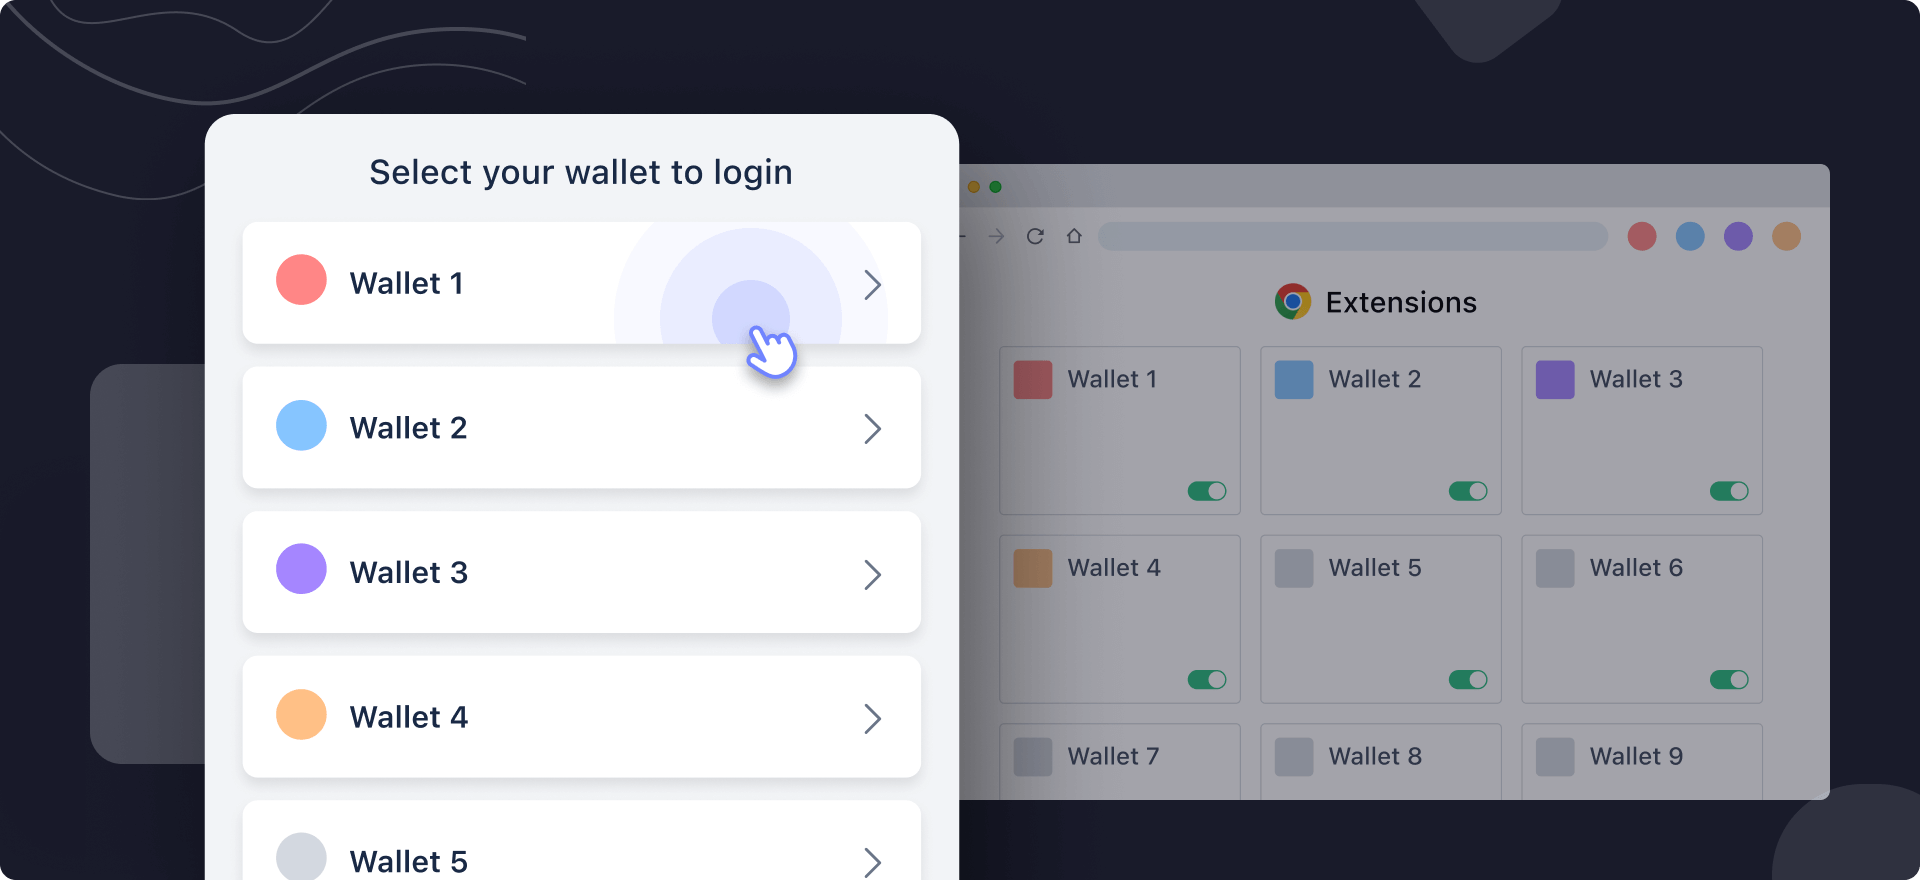
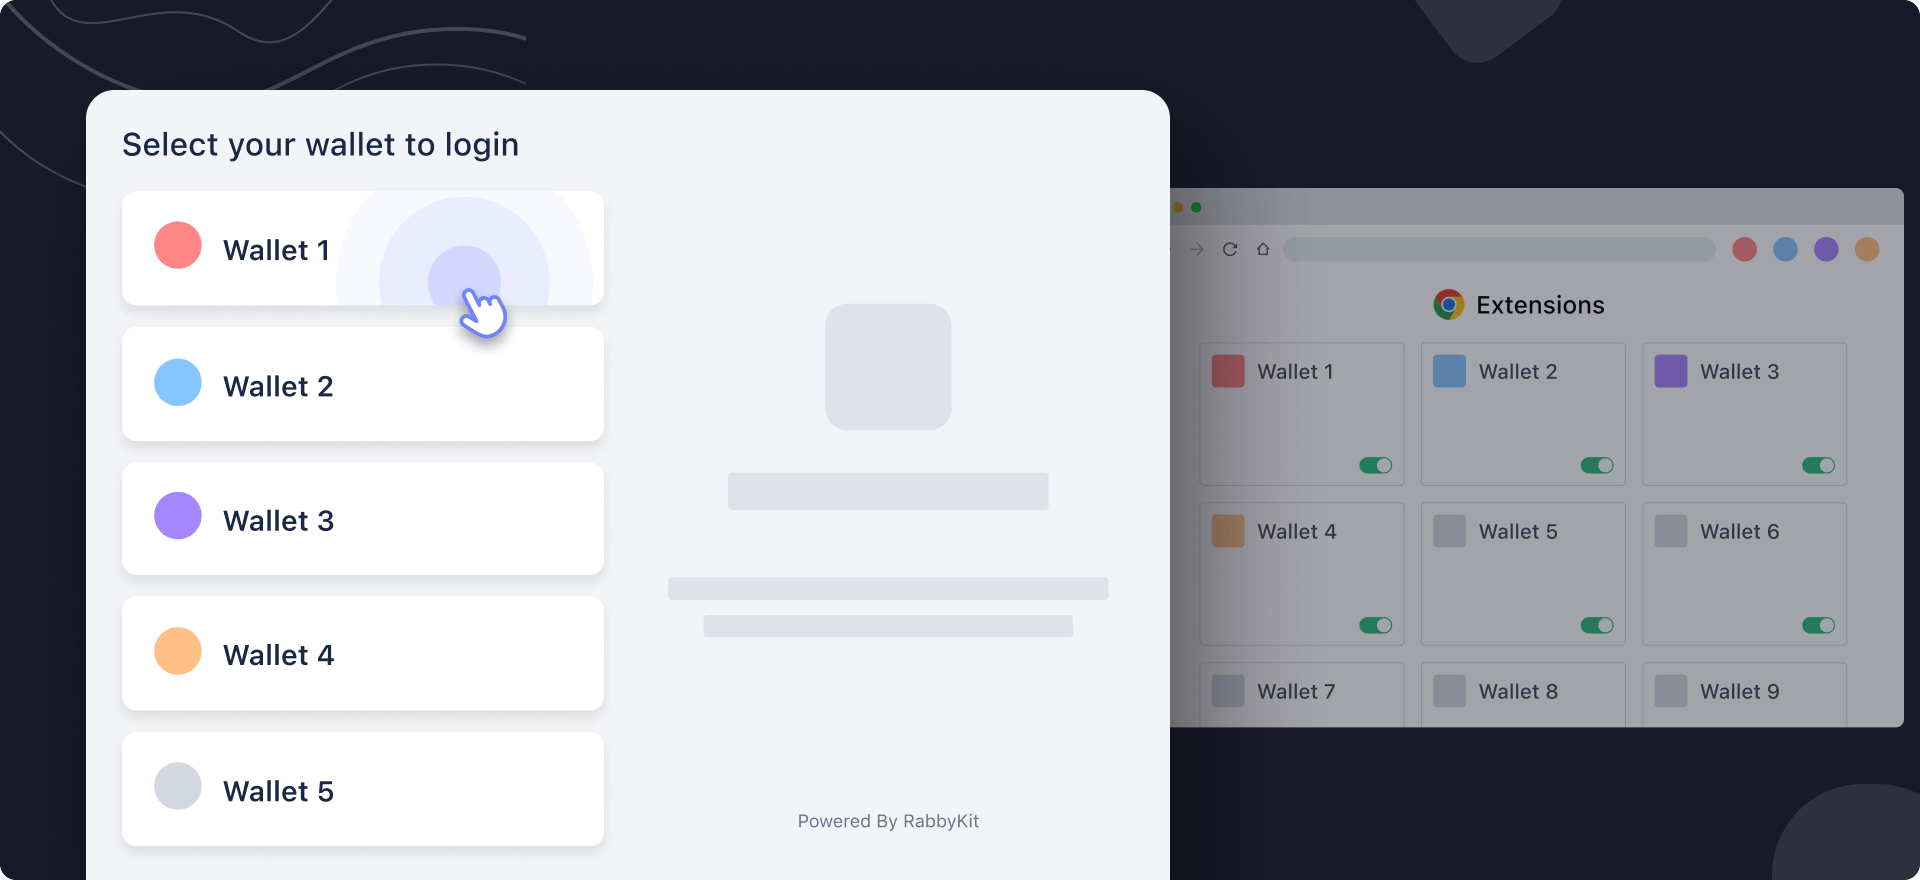
chore: update site

diff --git a/site/doc/src/component/sections/config.tsx b/site/doc/src/component/sections/config.tsx
@@ -105,52 +105,53 @@ export const ConfigDemo = () => {
       >
         Match your Dapp perfectly with minimal efforts
       </div>
-      <div
-        className={clsx(
-          "mx-auto w-full max-w-[960px] flex justify-between ",
-          "flex-col-reverse  items-center  relative -top-[50px]",
-          "lg:flex-row  lg:items-start lg:mt-[88px] lg:top-0"
-        )}
-      >
+      <div className="overflow-hidden w-full">
         <div
           className={clsx(
-            "flex flex-col gap-[32px]",
-            "items-center justify-center relative -top-[26px]",
-            "lg:items-start lg:justify-start lg:top-0"
+            "mx-auto w-full max-w-[960px] flex justify-between ",
+            "flex-col-reverse  items-center  relative -top-[50px]",
+            "lg:flex-row  lg:items-start lg:mt-[88px] lg:top-0"
           )}
         >
-          {allConfig.map((e) => (
-            <Item
-              key={e.name}
-              {...e}
-              onUpdate={(v) => {
-                if (e.type === "theme") {
-                  setTheme(v);
-                } else if (e.field) {
-                  setCss((preCss) => ({ ...preCss, [e.field]: v }));
-                }
-              }}
-            />
-          ))}
-
-          <a
-            href={docPath}
-            target="_blank"
-            rel="noreferrer"
-            style={{
-              fontSize: "13px",
-              fontStyle: "normal",
-              fontWeight: 400,
-              lineHeight: "normal",
-              textDecorationLine: "underline",
-            }}
-            className="text-white text-opacity-60"
+          <div
+            className={clsx(
+              "flex flex-col gap-[32px]",
+              "items-center justify-center relative -top-[26px]",
+              "lg:items-start lg:justify-start lg:top-0"
+            )}
           >
-            Learn more
-          </a>
-        </div>
+            {allConfig.map((e) => (
+              <Item
+                key={e.name}
+                {...e}
+                onUpdate={(v) => {
+                  if (e.type === "theme") {
+                    setTheme(v);
+                  } else if (e.field) {
+                    setCss((preCss) => ({ ...preCss, [e.field]: v }));
+                  }
+                }}
+              />
+            ))}
 
-        <Preview theme={theme} cssVar={cssVar} isCustom={isCustom} />
+            <a
+              href={docPath}
+              target="_blank"
+              rel="noreferrer"
+              style={{
+                fontSize: "13px",
+                fontStyle: "normal",
+                fontWeight: 400,
+                lineHeight: "normal",
+                textDecorationLine: "underline",
+              }}
+              className="text-white text-opacity-60"
+            >
+              Learn more
+            </a>
+          </div>
+          <Preview theme={theme} cssVar={cssVar} isCustom={isCustom} />d
+        </div>
       </div>
     </div>
   );
@@ -260,7 +261,7 @@ const demoList = [
   "#A586FF",
   "#FFC086",
   "#D3D8E0",
-  "#D9D9D9",
+  // "#D9D9D9",
 ];
 
 function WalletItem({
@@ -333,7 +334,6 @@ function WalletItem({
         }
 
         .item.sub {
-          width: 204px;
           height: 56px;
           background: transparent;
           color: var(--r-neutral-body);
@@ -358,101 +358,121 @@ const Preview = ({
   isCustom?: boolean;
 }) => {
   return (
-    <div
-      className={clsx(
-        "modal flex flex-col items-center",
-        "w-[460px] h-[560px]",
-        "scale-[0.7]",
-        "lg:scale-100",
-        theme
-      )}
-    >
-      <div className="title mb-[20px]">Select your wallet to login</div>
-      <div className="flex flex-col gap-[15px] w-full">
-        {demoList.slice(0, isCustom ? undefined : -1).map((fill, idx) => (
-          <WalletItem
-            fill={fill}
-            idx={idx + 1}
-            key={idx}
-            isCustom={isCustom && idx === 5}
-          />
-        ))}
+    <div className="max-w-[100vw] lg:ml-[80px]">
+      <div
+        className={clsx(
+          "modal flex flex-col items-center",
+          "w-[780px] h-[540px]",
+          "scale-[0.7]",
+          "lg:scale-100",
+          theme
+        )}
+      >
+        <div className="flex w-full h-full">
+          <div className="w-[300px] px-[20px] border-r border-r-[#D3D8E0] p-[20px]">
+            <div className="title mb-[20px]">Select your wallet to login</div>
+            <div className="flex flex-col gap-[10px] w-full">
+              {demoList.slice(0, isCustom ? undefined : -1).map((fill, idx) => (
+                <WalletItem
+                  fill={fill}
+                  idx={idx + 1}
+                  key={idx}
+                  isCustom={isCustom && idx === 4}
+                />
+              ))}
+            </div>
+
+            <div className="second">
+              The following wallets are not available
+            </div>
+            <div className="flex justify-between w-full flex-wrap gap-[10px]">
+              {Array.from({ length: 2 }, () => 1).map((_, idx) => (
+                <WalletItem
+                  fill={"#D9D9D9"}
+                  idx={4 + idx + 1}
+                  isSecond
+                  key={idx}
+                />
+              ))}
+            </div>
+          </div>
+          <div className="flex-1 flex flex-col items-center relative">
+            <div className="w-[84px] h-[84px] bg-[#D3D8E0] rounded-[8px] mt-[130px]" />
+            <div className="w-[337px] h-[26px] bg-[#D3D8E0] rounded-[8px] mt-[44px] mb-[15px]" />
+            <div className="w-[383px] h-[44px] bg-[#D3D8E0] rounded-[8px]" />
+
+            <div className="text-[12px] text-[#6a7587] text-center mt-auto mb-[25px]">
+              powered by RabbyKit
+            </div>
+          </div>
+        </div>
+
+        <style jsx>
+          {`
+            .modal {
+              --fallback-modal-border-radius: 12px;
+              --r-neutral-body: #3e495e;
+              --r-neutral-bg-2: #f2f4f7;
+              --r-neutral-title-1: #192945;
+              --r-neutral-foot: #6a7587;
+              --r-neutral-card-1: #fff;
+              --r-neutral-line: #d3d8e0;
+              --r-blue-light-1: rgba(238, 241, 255, 1);
+              ${cssVar}
+            }
+            .modal.dark {
+              --r-neutral-body: #d3d8e0;
+              --r-neutral-bg-2: #3d4251;
+              --r-neutral-title-1: #f7fafc;
+              --r-neutral-foot: #babec5;
+              --r-neutral-card-1: rgba(255, 255, 255, 0.06);
+              --r-neutral-line: rgba(255, 255, 255, 0.1);
+              --r-blue-light-1: rgba(112, 132, 255, 0.1);
+            }
+            .modal {
+              // padding: 20px;
+              // width: 460px;
+              // height: 540px;
+              overflow: hidden;
+              border-radius: var(
+                --rk-radius,
+                var(--fallback-modal-border-radius)
+              );
+              border: 2.048px solid rgba(255, 255, 255, 0.1);
+              background: var(--rk-modal-bg, var(--r-neutral-bg-2));
+              position: relative;
+            }
+
+            .modal:before {
+              position: absolute;
+              content: "";
+              width: 100%;
+              height: 100%;
+              left: 0;
+              top: 0;
+            }
+            .title {
+              color: var(--r-neutral-title-1);
+              text-align: left;
+              font-size: 18px;
+              font-style: normal;
+              font-weight: 510;
+              line-height: normal;
+            }
+
+            .second {
+              width: 100%;
+              margin-top: 20px;
+              margin-bottom: 10px;
+              color: var(--r-neutral-foot);
+              font-size: 13.209px;
+              font-style: normal;
+              font-weight: 400;
+              line-height: normal;
+            }
+          `}
+        </style>
       </div>
-
-      <div className="second">
-        The following wallets are not installed or in conflict with others
-      </div>
-      <div className="flex justify-between w-full max-w-[454px] flex-wrap gap-[8px]">
-        {Array.from({ length: 2 }, () => 1).map((_, idx) => (
-          <WalletItem fill={"#D9D9D9"} idx={5 + idx + 1} isSecond key={idx} />
-        ))}
-      </div>
-
-      <style jsx>
-        {`
-          .modal {
-            --fallback-modal-border-radius: 12px;
-            --r-neutral-body: #3e495e;
-            --r-neutral-bg-2: #f2f4f7;
-            --r-neutral-title-1: #192945;
-            --r-neutral-foot: #6a7587;
-            --r-neutral-card-1: #fff;
-            --r-neutral-line: #d3d8e0;
-            --r-blue-light-1: rgba(238, 241, 255, 1);
-            ${cssVar}
-          }
-          .modal.dark {
-            --r-neutral-body: #d3d8e0;
-            --r-neutral-bg-2: #3d4251;
-            --r-neutral-title-1: #f7fafc;
-            --r-neutral-foot: #babec5;
-            --r-neutral-card-1: rgba(255, 255, 255, 0.06);
-            --r-neutral-line: rgba(255, 255, 255, 0.1);
-            --r-blue-light-1: rgba(112, 132, 255, 0.1);
-          }
-          .modal {
-            padding: 20px;
-            // width: 460px;
-            // height: 540px;
-            overflow: hidden;
-            border-radius: var(
-              --rk-radius,
-              var(--fallback-modal-border-radius)
-            );
-            border: 2.048px solid rgba(255, 255, 255, 0.1);
-            background: var(--rk-modal-bg, var(--r-neutral-bg-2));
-            position: relative;
-          }
-
-          .modal:before {
-            position: absolute;
-            content: "";
-            width: 100%;
-            height: 100%;
-            left: 0;
-            top: 0;
-          }
-          .title {
-            color: var(--r-neutral-title-1);
-            text-align: center;
-            font-size: 18px;
-            font-style: normal;
-            font-weight: 510;
-            line-height: normal;
-          }
-
-          .second {
-            width: 100%;
-            margin-top: 20px;
-            margin-bottom: 10px;
-            color: var(--r-neutral-foot);
-            font-size: 13.209px;
-            font-style: normal;
-            font-weight: 400;
-            line-height: normal;
-          }
-        `}
-      </style>
     </div>
   );
 };

diff --git a/site/doc/src/component/sections/header.tsx b/site/doc/src/component/sections/header.tsx
@@ -66,7 +66,7 @@ export function Header() {
         alt={""}
         width={1068}
         height={960}
-        className={clsx("lg:mt-[-116px] lg:mb-[-58px]")}
+        className={clsx("lg:mt-[-56px]")}
         priority
       />
     </section>
